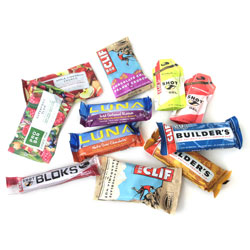
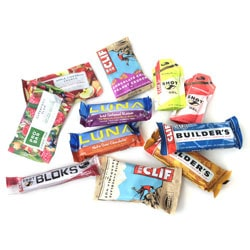
compressed images to save space

diff --git a/style.css b/style.css
@@ -150,7 +150,10 @@ html, body{
     color:#216EAF;
 }
 
-.fa-code, .fa-css3, .fa-bold{
+.fa-js{
+    color:#f0db4f;
+}
+.fa-code, .fa-css3, .fa-bold, .fa-js{
     font-size:4em;
     margin:1rem;
 } 

diff --git a/about.php b/about.php
@@ -28,17 +28,17 @@
     <!--Navigation-->
     <nav class="navbar navbar-expand-md navbar-light sticky-top">
         <div class="container-fluid">
-            <a class="navbar-brand" href="/index.html"><img style="width: 60px;" src="images/logo.jpg"></a>
+            <a class="navbar-brand" href="/index.php"><img style="width: 60px;" src="images/logo.jpg"></a>
             <button class="navbar-toggler" type="button" data-toggle="collapse" data-target="#navbarResponsive">
                 <span class="navbar-toggler-icon"></span>
             </button>
             <div class="collapse navbar-collapse" id="navbarResponsive">
                 <ul class="navbar-nav ml-auto">
                     <li class="nav-item">
-                        <a class="nav-link" href="index.html">Home</a>
+                        <a class="nav-link" href="index.php">Home</a>
                     </li>
                     <li class="nav-item active">
-                        <a class="nav-link" href="about.html">About</a>
+                        <a class="nav-link" href="about.php">About</a>
                     </li>
                 </ul>
             </div>

diff --git a/index.php b/index.php
@@ -18,7 +18,7 @@
   <!--Navigation-->
   <nav class="navbar navbar-expand-md navbar-light sticky-top">
     <div class="container-fluid">
-      <a class="navbar-brand" href="/index.html"><img style="width: 60px;" src="images/logo.jpg"></a>
+      <a class="navbar-brand" href="/index.php"><img style="width: 60px;" src="images/logo.jpg"></a>
       <button class="navbar-toggler" type="button" data-toggle="collapse" data-target="#navbarResponsive">
         <span class="navbar-toggler-icon"></span>
       </button>
